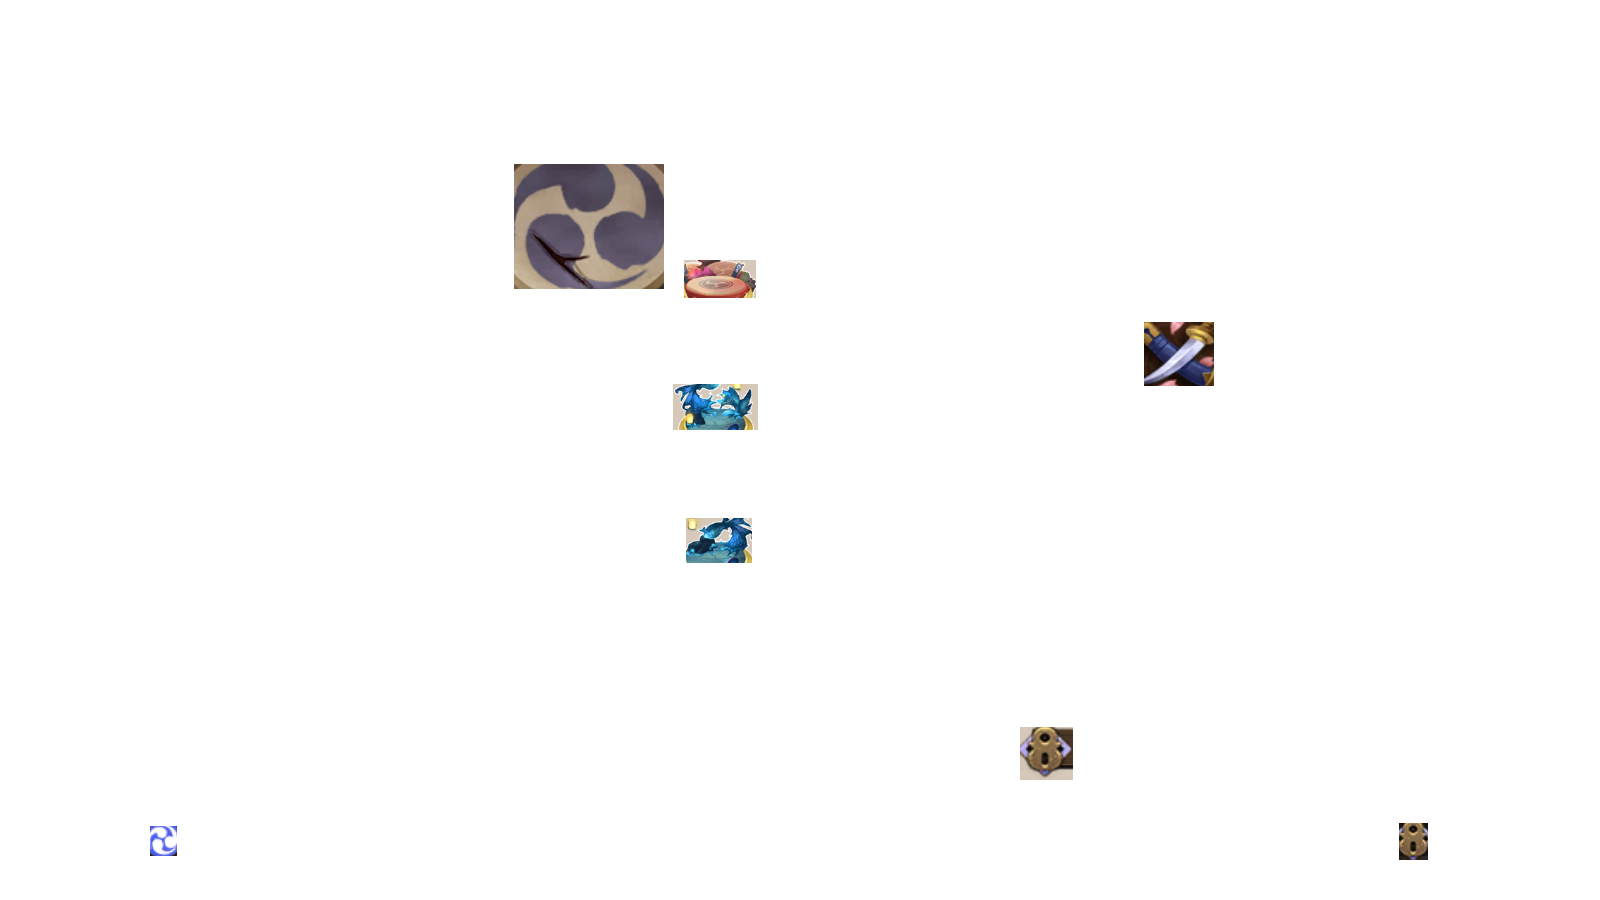
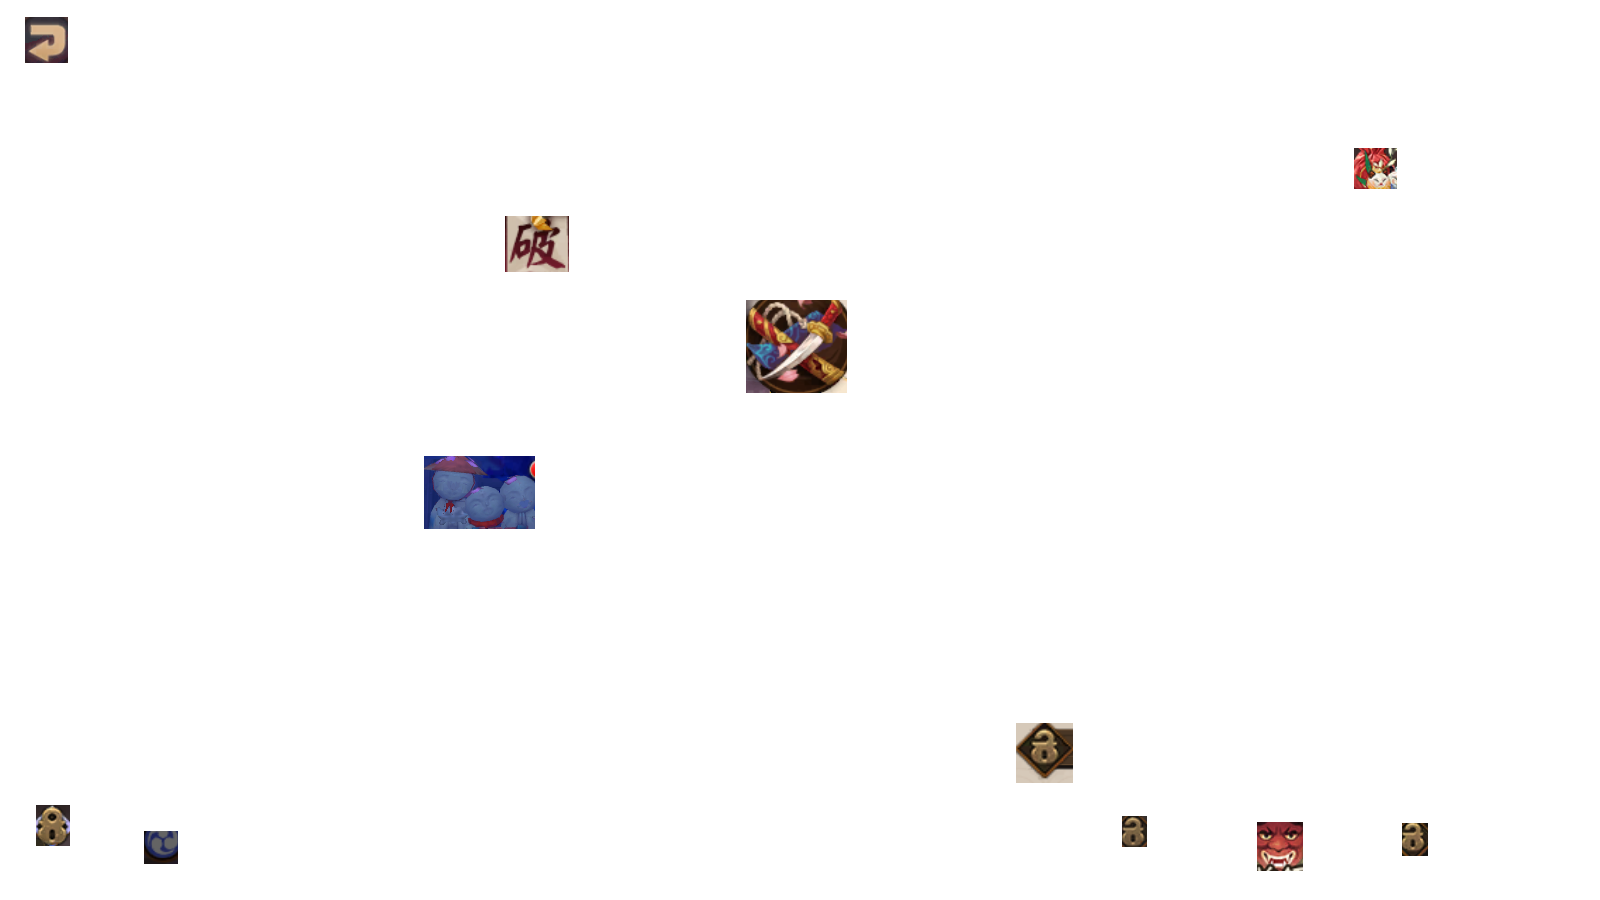
feat: point.py基准分辨率自动获取, main.py窗口闪烁容差补丁, SoulZones预设配置, RealmRaid方向判断修复, 更新assets

diff --git a/main.py b/main.py
@@ -1,13 +1,36 @@
+import time
+import logging
 import ok
 from src.config import config
-
-import logging
 
 if __name__ == '__main__':
     class Id_f(logging.Filter):
         def filter(self, record):
             return "player id check failed" not in record.getMessage()
     logging.getLogger("ok").addFilter(Id_f())
+
+    # 窗口闪烁容差: 检测到窗口消失/尺寸变化时, 等0.3秒确认稳定后再决定
+    import ok.device.capture_methods.hwnd_window as hwnd_mod
+    _original_do_update = hwnd_mod.HwndWindow.do_update_window_size
+
+    def patched_do_update(self):
+        pre_visible = self.visible
+        pre_width = self.width
+        pre_height = self.height
+        _original_do_update(self)
+        # 窗口从可见→不可见 或 尺寸变化 → 二次确认
+        if pre_visible and (not self.visible or
+                            self.width != pre_width or self.height != pre_height):
+            time.sleep(0.3)
+            _original_do_update(self)
+            if self.visible and self.device_manager and self.device_manager.executor:
+                try:
+                    self.device_manager.executor.resume()
+                except Exception:
+                    pass
+
+    hwnd_mod.HwndWindow.do_update_window_size = patched_do_update
+
     config = config
     ok = ok.OK(config)
     ok.start()

diff --git a/src/point.py b/src/point.py
@@ -18,8 +18,8 @@ import sys
 import cv2
 import os
 
-BASE_WIDTH = 2560
-BASE_HEIGHT = 1440
+BASE_WIDTH = 0
+BASE_HEIGHT = 0
 
 clicked_points = []
 current_rect = None  # (x1, y1) 起点（拖拽中）
@@ -142,13 +142,15 @@ def main():
         print(f"文件不存在: {img_path}")
         sys.exit(1)
 
+    global BASE_WIDTH, BASE_HEIGHT
+
     img = cv2.imread(img_path)
     if img is None:
         print(f"无法读取图片: {img_path}")
         sys.exit(1)
 
-    # 缩放图片，适应屏幕（高不超过 900）
     h, w = img.shape[:2]
+    BASE_WIDTH, BASE_HEIGHT = w, h
     scale = min(1.0, 900 / h)
     display_w, display_h = int(w * scale), int(h * scale)
     img_resized = cv2.resize(img, (display_w, display_h))

diff --git a/src/tasks/SoulZonesTask.py b/src/tasks/SoulZonesTask.py
@@ -193,7 +193,10 @@ class SoulZonesTask(BaseBattleTask):
         targets = [self.config["Friend 1"]]
         if self.config["Friend 2"]:
             targets.append(self.config["Friend 2"])
-        lock_res=self.Lock_team((0.07,0.87,0.12,0.97))
+        if lock_res:=self.Lock_team((0.07,0.87,0.12,0.97)):
+            self.log_info("锁")
+        else:
+            self.log_info("没锁")
     
         self.count = 1
 
@@ -331,7 +334,7 @@ class SoulZonesTask(BaseBattleTask):
                 if not self.wait_click_feature('Member_Confirm', threshold=0.7,
                                         box=self.B('Member_Confirm'),
                                         raise_if_not_found=False, time_out=10, after_sleep=1):
-                    self.log_warning("找不到Battle_Success_Soul")
+                    self.log_warning("找不到Member_Confirm")
                 if  self.wait_click_feature('Leader_Invitation', threshold=0.7,
                                         box=self.B('Leader_Invitation'),
                                         raise_if_not_found=False, time_out=2, after_sleep=1):

diff --git a/src/tasks/RealmRaidTask.py b/src/tasks/RealmRaidTask.py
@@ -96,11 +96,13 @@ class RealmRaidTask(BaseBattleTask):
         res = self.find_feature("Real_Raid_Finish",box=self.box_of_screen(0.11,0.20,0.88,0.73),threshold=0.7)
         lens = len(res)
         print(lens)
+        
 
         # 判断方向：lens=0 默认正着；
         if lens > 0:
             ys = [b.y for b in res]
-            self.forward = sum(ys) / len(ys) < self.frame.shape[0] * 0.5  # 偏上=正着，偏下=倒着
+            print(ys)
+            self.forward = sum(ys) / len(ys) < self.frame.shape[0] * 0.43  # 偏上=正着，偏下=倒着
         else:
             self.forward = True
 
@@ -147,7 +149,9 @@ class RealmRaidTask(BaseBattleTask):
                             self.info_set("确认弹窗", "无")
                             self.log_warning("找不到Battle_Finish")
             if self.ocr_and_click(["结界","突破"],box=self.box_of_screen(0.45, 0.09, 0.55, 0.18)):
+                self.sleep(0.5)
                 self.click_relative(x, y, after_sleep=0.5)
+                print(x,y)
                 self.log_info("进攻")
             if self.ocr_and_click("进攻",box=self.box_of_screen(*group_rows_2[target-1])):
                 self.log_info(f"点击第 {target} 个")

diff --git a/src/tasks/BaseBattleTask.py b/src/tasks/BaseBattleTask.py
@@ -108,7 +108,7 @@ class BaseBattleTask(BaseOmjTask):
                 self.log_info("解锁")
                 return False
     def Change_team(self):
-        self.ocr_and_click("预","设",box=(0,0.87,0.15,1))# (0.8781, 0.7701, 0.9625, 0.8535)
+        self.ocr_and_click(["预","设"],box=self.box_of_screen(0,0.87,0.15,1))# (0.8781, 0.7701, 0.9625, 0.8535)
         group, team = self._parse_preset()
         group_rows = {1: 0.36, 2: 0.45, 3: 0.54, 4: 0.63, 5: 0.72, 6: 0.81, 7: 0.90}
         self.click_nth('x', 0.76, group_rows, group, "预设组")